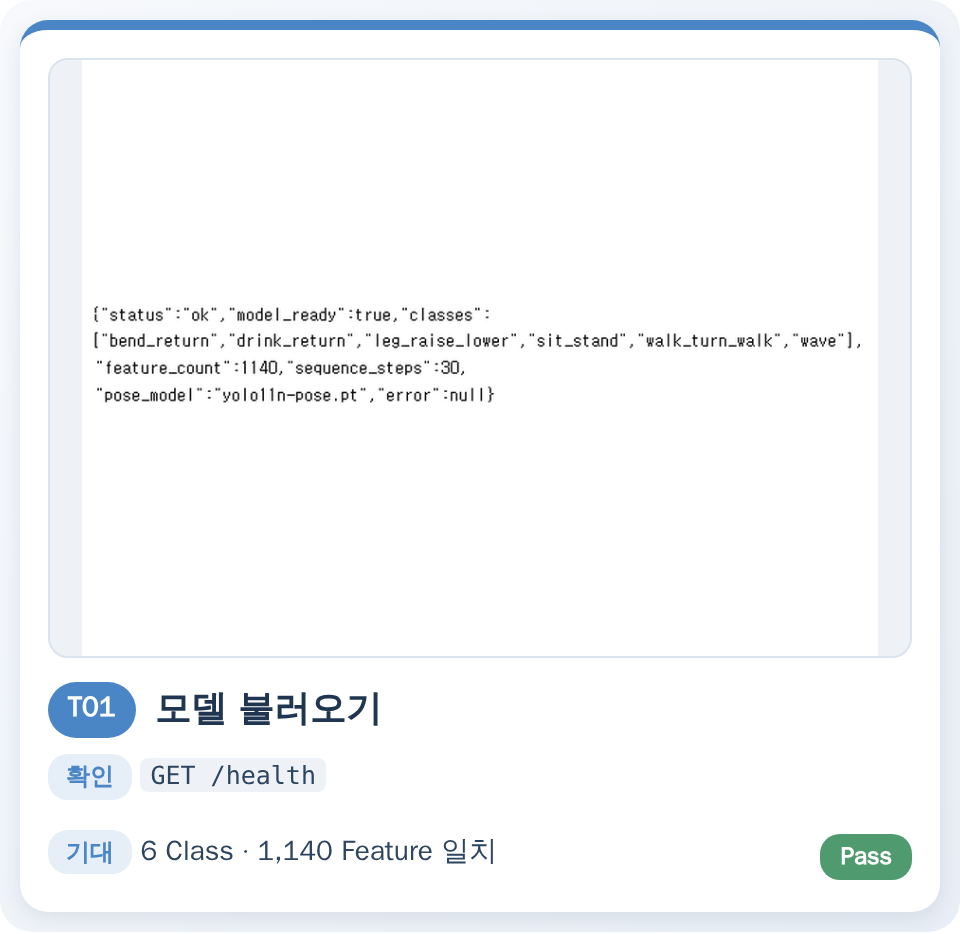
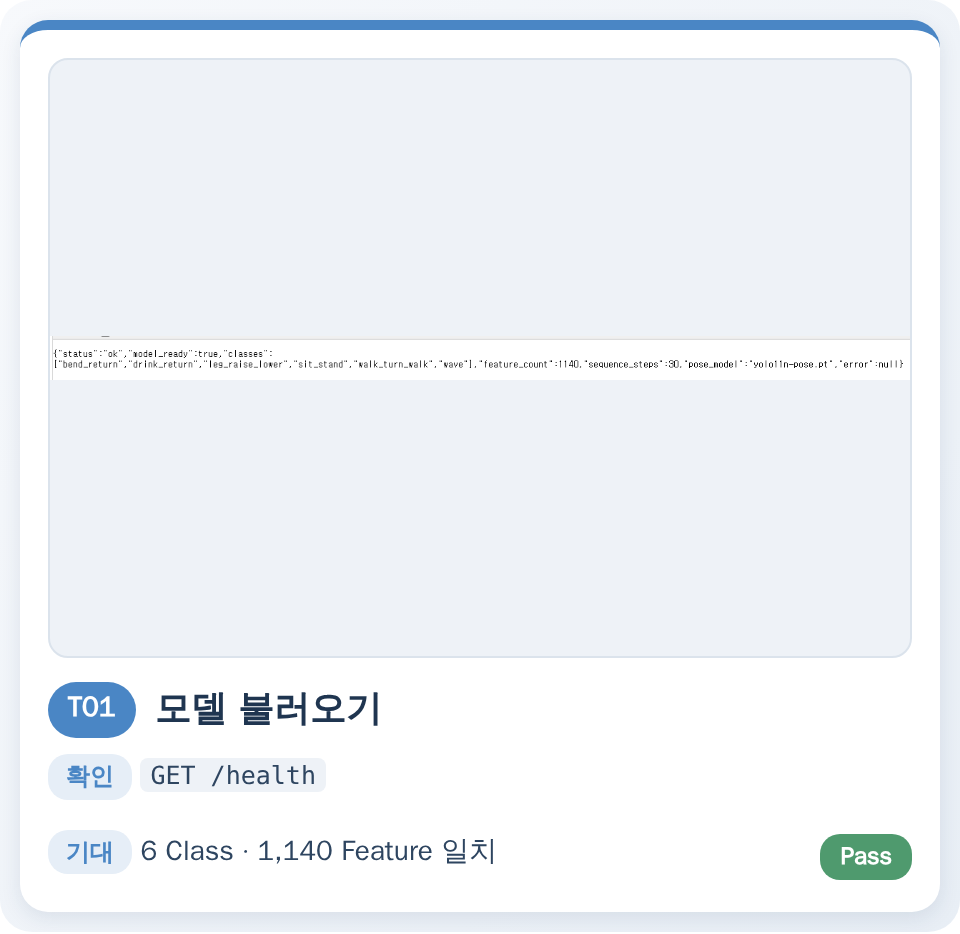
README: T06·T10 캡처를 새 제목이 보이는 이력 화면으로 교체

Changed region(s): [[0.0625, 0.3105, 0.9062, 0.4347]]

diff --git a/README.md b/README.md
@@ -296,7 +296,7 @@ sequenceDiagram
 </p>
 <p align="center">
 <a href="docs/images/shots/async.png"><img src="docs/images/cards2/t05.png" width="49%" alt="T05"></a>
-<a href="docs/images/shots/history.png"><img src="docs/images/cards2/t06.png" width="49%" alt="T06"></a>
+<a href="docs/images/shots/history_titles.png"><img src="docs/images/cards2/t06_v2.png" width="49%" alt="T06"></a>
 </p>
 <p align="center">
 <a href="docs/images/t07_forbidden.png"><img src="docs/images/cards2/t07.png" width="49%" alt="T07"></a>
@@ -304,7 +304,7 @@ sequenceDiagram
 </p>
 <p align="center">
 <a href="docs/images/shots/failure.png"><img src="docs/images/cards2/t09.png" width="49%" alt="T09"></a>
-<a href="docs/images/shots/restart.png"><img src="docs/images/cards2/t10.png" width="49%" alt="T10"></a>
+<a href="docs/images/shots/restart_and_history.png"><img src="docs/images/cards2/t10_v2.png" width="49%" alt="T10"></a>
 </p>
 
 ## 8. 교재와 다르게 구현한 점과 이유
